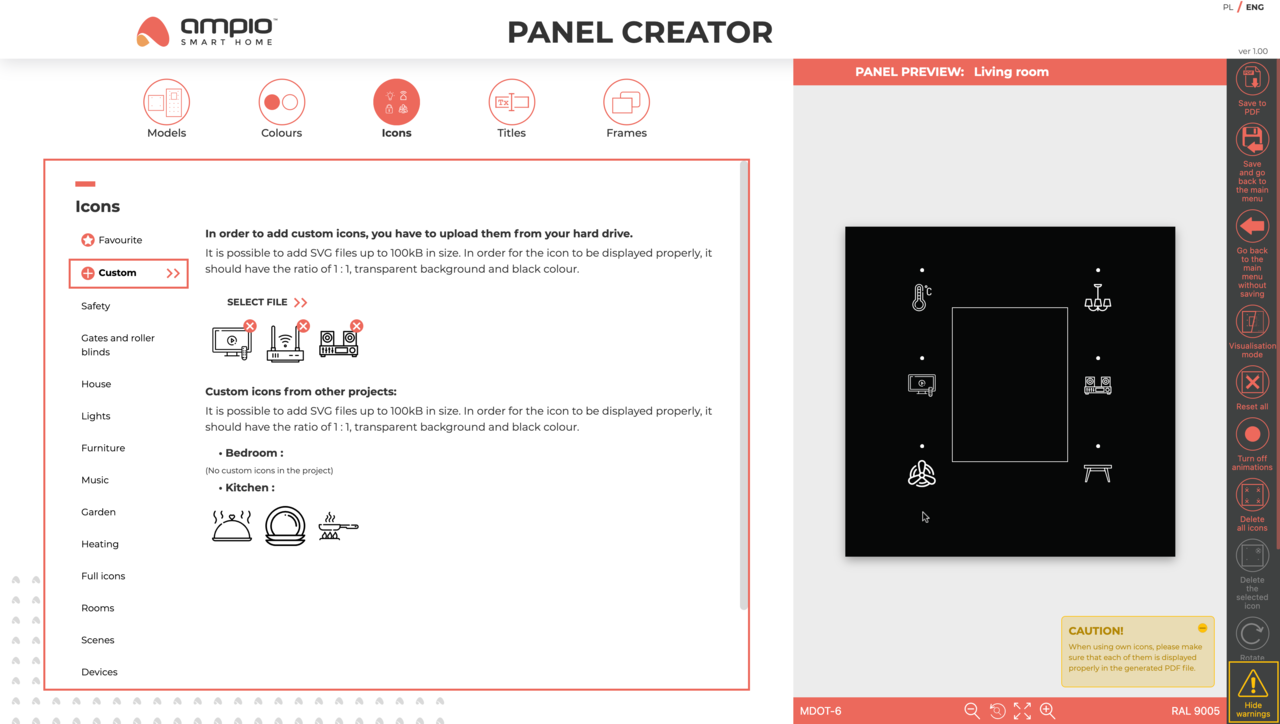
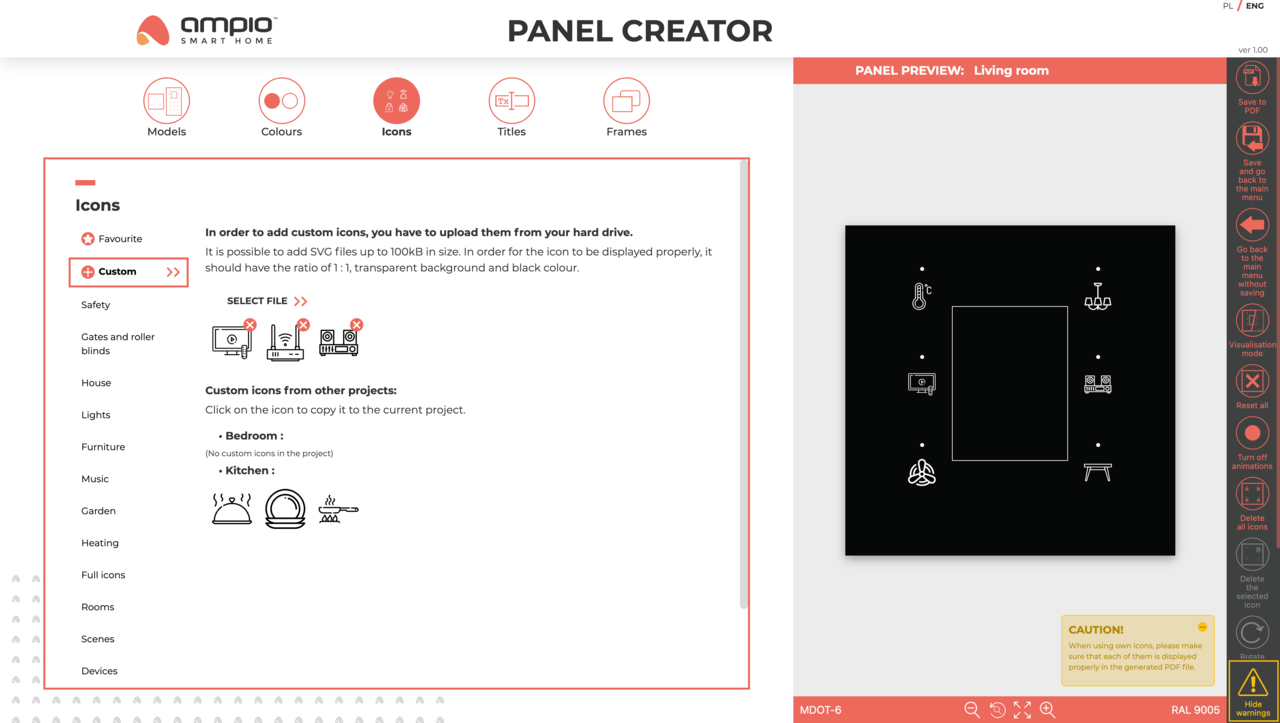
readme update

diff --git a/src/components/MainCreator/PanelEditor/IconEditor/IconEditor.js b/src/components/MainCreator/PanelEditor/IconEditor/IconEditor.js
@@ -232,7 +232,7 @@ export const IconEditor = ({ visual, toggleVisual, favoriteIcons, ownIcons, upda
                         <p className="instruction" style={{ marginTop: "0", marginBottom: "5px", fontSize: "12px" }}>{t("NO_OTHER_PROJECTS")}</p>
                         :
                         <>
-                          <p className="instruction" >{t("CUSTOM_ICONS_INSTRUCTION_NORMAL_1")}</p>
+                          <p className="instruction" >{t("CUSTOM_ICONS_INSTRUCTION_NORMAL_2")}</p>
                           {panels.map((panel, index) =>
                             <div key={index}>
                               {indexOfLastPanel !== index &&

diff --git a/README.md b/README.md
@@ -69,5 +69,5 @@ For easier work with the editor avalible icons may be added to Favourites by cli
 The Favourites tab at icon categories list also provides an overview of favourite icons from other projects open on a computer.
 ![Icons tab favourites2](https://github.com/KrynickiJarek/kreatorpaneli/blob/b1aff8a6156f0a7ca0a71b8de697914a2a8d21fc/src/assets/readme/13_icons_tab_favourites2.png)
 
-The Custom tab at icon categories list provides the possibility to extend the project with personalized icons by uploading them from computer hard drive.
+The Custom tab at icon categories list provides the possibility to extend the project with personalized icons by uploading them from computer hard drive. Similar like with Favourite icons there is also an option to copy custom icons from other project  open on a computer.
 ![Icons tab favourites2](https://github.com/KrynickiJarek/kreatorpaneli/blob/b1aff8a6156f0a7ca0a71b8de697914a2a8d21fc/src/assets/readme/14_icons_tab_custom.png)
